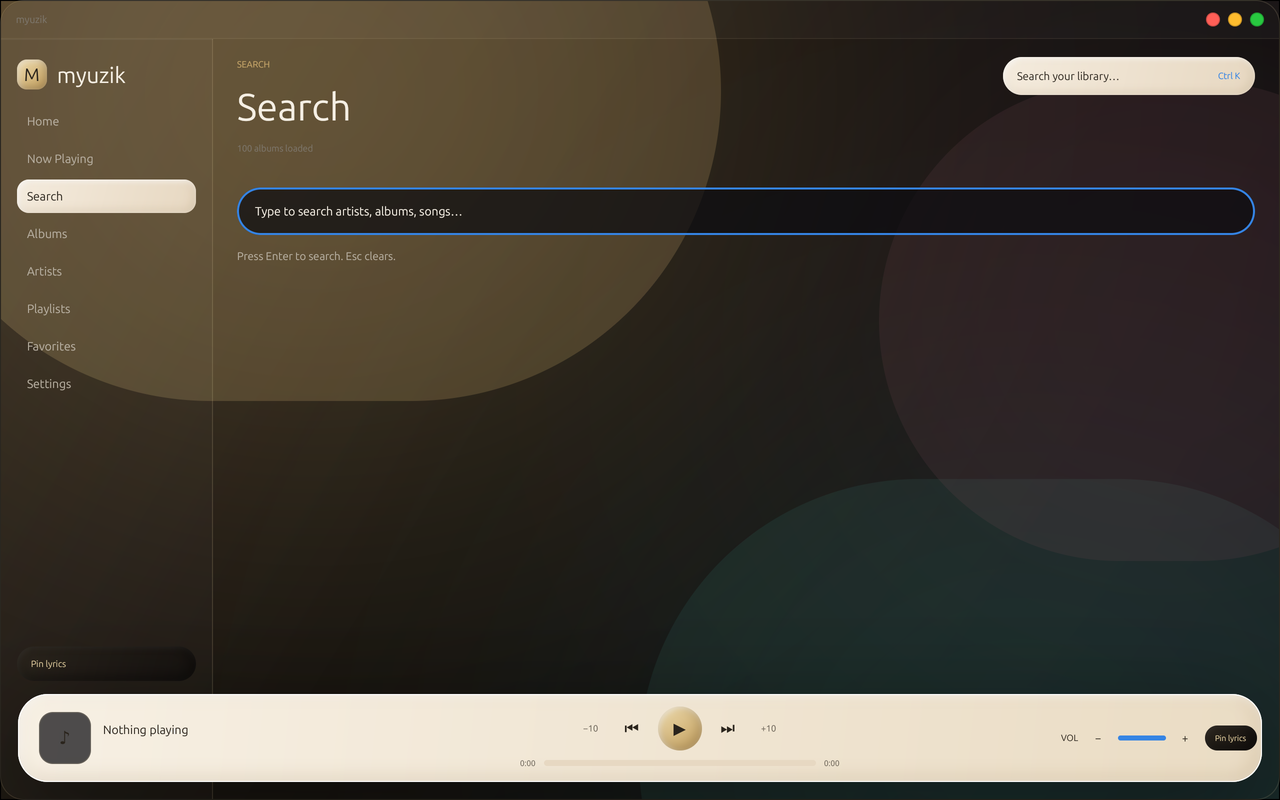
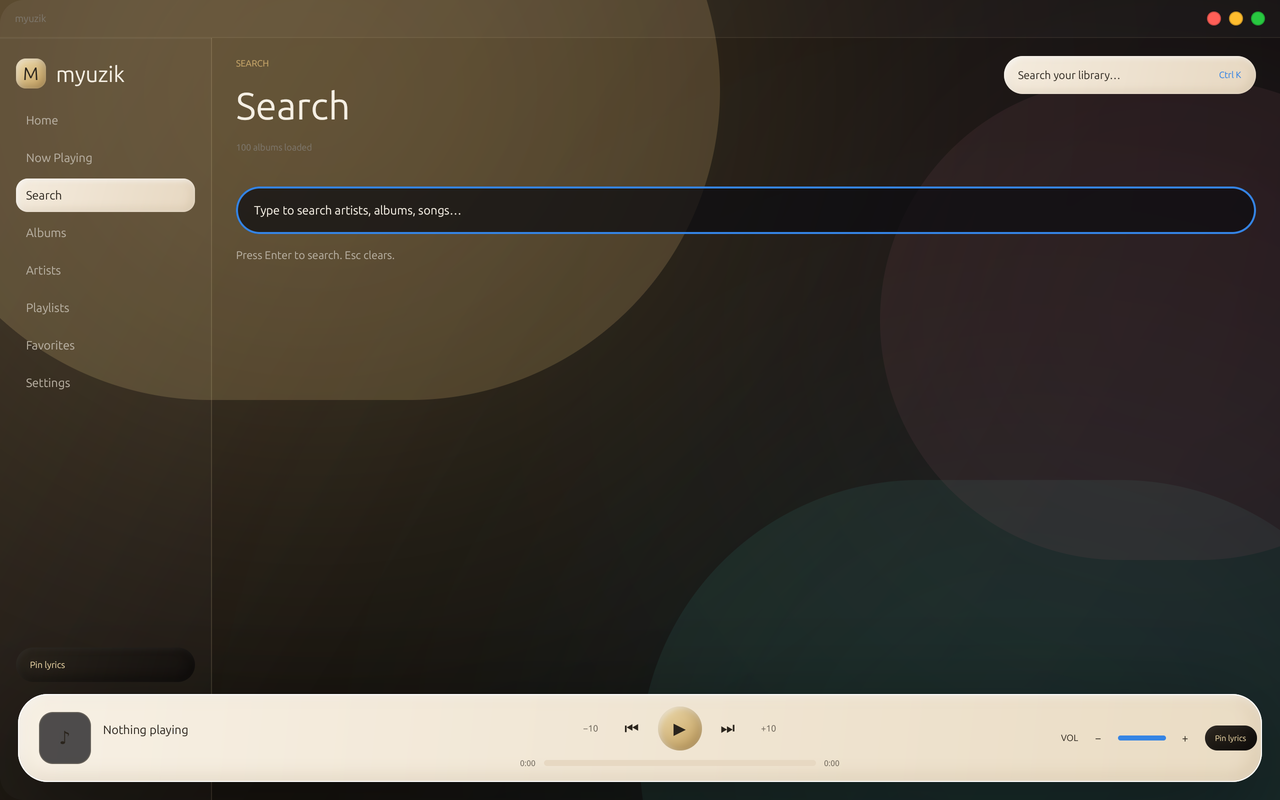
fix: rounded cover images, transparent client-inset window shadow, no outer border, edge resize

diff --git a/src/ui/shell.rs b/src/ui/shell.rs
@@ -1236,6 +1236,13 @@ impl Render for Shell {
                 .into_any_element();
         }
 
+        let decorations = window.window_decorations();
+        let (shadow_size, rounded_window) = match decorations {
+            gpui::Decorations::Client { tiling } if !tiling.is_tiled() => (gpui::px(10.0), true),
+            _ => (gpui::px(0.0), false),
+        };
+        window.set_client_inset(shadow_size);
+
         let status = self.player_state.read(cx).status;
         let is_playing = status == PlaybackStatus::Playing;
         let current_title = self
@@ -1275,9 +1282,9 @@ impl Render for Shell {
         // Player bar
         let player = div()
             .absolute()
-            .left(gpui::px(18.0))
-            .right(gpui::px(18.0))
-            .bottom(gpui::px(18.0))
+            .left(shadow_size + gpui::px(18.0))
+            .right(shadow_size + gpui::px(18.0))
+            .bottom(shadow_size + gpui::px(18.0))
             .h(gpui::px(88.0))
             .rounded(gpui::px(30.0))
             .bg(gpui::linear_gradient(
@@ -1666,7 +1673,6 @@ impl Render for Shell {
             self.root_focus_requested = true;
         }
         let key_entity = cx.entity();
-
         // Glass shell with home content
         div()
             .size_full()
@@ -1738,20 +1744,18 @@ impl Render for Shell {
             .child(
                 div()
                     .absolute()
-                    .inset_0()
-                    .rounded(gpui::px(24.0))
+                    .inset(shadow_size)
+                    .rounded(if rounded_window { gpui::px(24.0) } else { gpui::px(0.0) })
                     .bg(gpui::linear_gradient(
                         135.0,
                         gpui::linear_color_stop(t.glass_gradient_start, 0.0),
                         gpui::linear_color_stop(t.glass_gradient_end, 1.0),
                     ))
-                    .border_1()
-                    .border_color(t.glass_border)
                     .shadow(vec![
                         gpui::BoxShadow {
-                            color: gpui::hsla(0.0, 0.0, 0.0, 0.6),
-                            offset: gpui::point(gpui::px(0.0), gpui::px(40.0)),
-                            blur_radius: gpui::px(100.0),
+                            color: gpui::hsla(0.0, 0.0, 0.0, 0.5),
+                            offset: gpui::point(gpui::px(0.0), gpui::px(4.0)),
+                            blur_radius: gpui::px(20.0),
                             spread_radius: gpui::px(0.0),
                             inset: false,
                         },
@@ -2672,8 +2676,8 @@ impl Render for Shell {
                 let grip_entity = cx.entity();
                 div()
                     .absolute()
-                    .right(gpui::px(4.0))
-                    .bottom(gpui::px(4.0))
+                    .right(shadow_size + gpui::px(4.0))
+                    .bottom(shadow_size + gpui::px(4.0))
                     .w(gpui::px(18.0))
                     .h(gpui::px(18.0))
                     .id("resize-grip")
@@ -2712,6 +2716,54 @@ impl Render for Shell {
                         }
                     })
             })
+            .child(
+                div()
+                    .absolute()
+                    .top_0()
+                    .left_0()
+                    .right_0()
+                    .h(shadow_size)
+                    .cursor(gpui::CursorStyle::ResizeUpDown)
+                    .on_mouse_down(gpui::MouseButton::Left, |_event, window, _cx| {
+                        window.start_window_resize(gpui::ResizeEdge::Top);
+                    }),
+            )
+            .child(
+                div()
+                    .absolute()
+                    .bottom_0()
+                    .left_0()
+                    .right_0()
+                    .h(shadow_size)
+                    .cursor(gpui::CursorStyle::ResizeUpDown)
+                    .on_mouse_down(gpui::MouseButton::Left, |_event, window, _cx| {
+                        window.start_window_resize(gpui::ResizeEdge::Bottom);
+                    }),
+            )
+            .child(
+                div()
+                    .absolute()
+                    .left_0()
+                    .top_0()
+                    .bottom_0()
+                    .w(shadow_size)
+                    .cursor(gpui::CursorStyle::ResizeLeftRight)
+                    .on_mouse_down(gpui::MouseButton::Left, |_event, window, _cx| {
+                        window.start_window_resize(gpui::ResizeEdge::Left);
+                    }),
+            )
+            .child(
+                div()
+                    .absolute()
+                    .right_0()
+                    .top_0()
+                    .bottom_0()
+                    .w(shadow_size)
+                    .cursor(gpui::CursorStyle::ResizeLeftRight)
+                    .on_mouse_down(gpui::MouseButton::Left, |_event, window, _cx| {
+                        window.start_window_resize(gpui::ResizeEdge::Right);
+                    }),
+            )
             .with_animation(
                 format!("route-{:?}", self.route),
                 gpui::Animation::new(std::time::Duration::from_millis(180))
